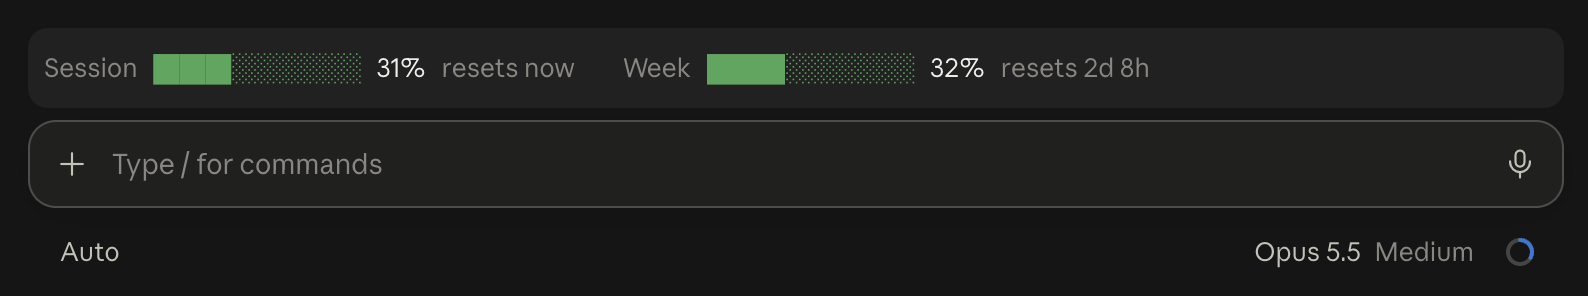
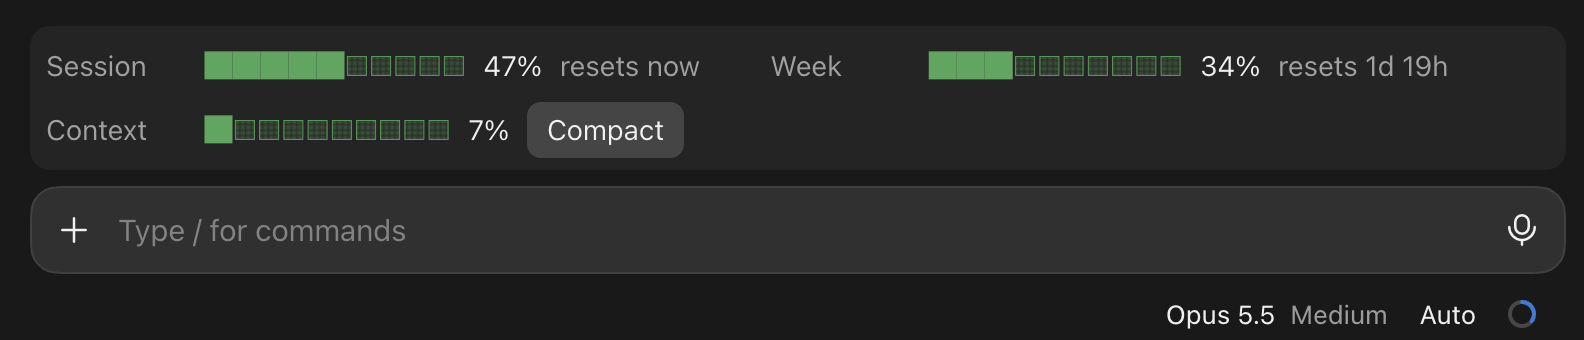
v0.3.1: two-row responsive band, queued Compact, no $0 price on subscriptions

Changed region(s): [[0.0, 0.6081, 0.9899, 0.973], [0.0309, 0.1216, 0.9899, 0.4865], [0.0309, 0.5169, 0.9899, 0.6081]]

diff --git a/hooks/register.tsx b/hooks/register.tsx
@@ -1,7 +1,10 @@
-import type { Register, SessionCost, SessionRateLimit } from 'claude-code'
+import type { Register, RenderChildren, SessionCost, SessionRateLimit } from 'claude-code'
 
 // Cells in each progress bar
 const CELLS = 10
+
+// Cells each label takes, so the bars line up down the rows
+const LABEL_WIDTH = 8
 
 // Turn a percentage into a bar such as ████░░░░░░
 function bar(percent: number): string {
@@ -94,77 +97,89 @@ export const register: Register = on => {
     return next(e)
   })
 
-  // Draw the band above the prompt
+  // Draw the band above the prompt: limits on the first row, context on the second
   on('ui.render', { component: 'AbovePrompt' }, async ($, e, next) => {
     // Nothing to show before the first reading or an update
     if (e.props.hasSurvey) return next(e)
-    if (limits.length === 0 && !cost && ctx === undefined && latest === undefined) return next(e)
+    // A cost only counts where it is a real charge: on a subscription it is always
+    // $0, and before the first reading a Pro session has no windows yet either
+    const charged = limits.length === 0 && cost !== undefined && cost.usd > 0 ? cost : undefined
+    const hasFirstRow = limits.length > 0 || charged !== undefined
+    if (!hasFirstRow && ctx === undefined && latest === undefined) return next(e)
 
     const { Box, Button, Text } = $.ui.resolve(e)
     const now = await $.clock.now()
 
+    // One item: a fixed-width label, then the rest. It never shrinks, so a narrow
+    // band moves whole items onto the next row instead of breaking their text
+    const item = (key: string, label: string, rest: RenderChildren) => (
+      <Box key={key} flexDirection="row" flexShrink={0} columnGap={1} alignItems="center">
+        <Box width={LABEL_WIDTH}>
+          <Text dimColor>{label}</Text>
+        </Box>
+        {rest}
+      </Box>
+    )
+    const meter = (percent: number) => [
+      <Text key="bar" color={colorFor(percent)}>{bar(percent)}</Text>,
+      <Text key="pct">{Math.round(percent)}%</Text>,
+    ]
+
+    const compact = async () => {
+      if (compacting) return
+      compacting = true
+      $.ui.invalidate('ui.render')
+      try {
+        // The same path as typing /compact: queued until the session is idle
+        await $.command.run({ command: 'compact' })
+      } catch (err) {
+        $.ui.toast(`Couldn't compact: ${err instanceof Error ? err.message : String(err)}`)
+      } finally {
+        compacting = false
+        $.ui.invalidate('ui.render')
+      }
+    }
+
     return (
-      <Box flexDirection="row" justifyContent="space-between">
-        <Box flexDirection="row" columnGap={3}>
-          {/* No limit windows (API key, Team or Enterprise usage-based seat): the session's cost instead */}
-          {limits.length === 0 && cost && (
-            <Box flexDirection="row" columnGap={1}>
-              <Text dimColor>Session</Text>
-              <Text>${cost.usd.toFixed(2)}</Text>
-            </Box>
-          )}
-          {limits.map(l => (
-            <Box key={l.kind} flexDirection="row" columnGap={1}>
-              <Text dimColor>{LABELS[l.kind]}</Text>
-              <Text color={colorFor(l.percentUsed)}>{bar(l.percentUsed)}</Text>
-              <Text>{Math.round(l.percentUsed)}%</Text>
-              <Text dimColor>{countdown(l.resetsAt, now)}</Text>
-            </Box>
-          ))}
-        </Box>
-        <Box flexDirection="row" columnGap={3}>
-          {latest !== undefined && (
-            <Button
-              key="update"
-              label={`↑ v${latest}`}
-              onPress={() =>
-                $.ui.toast(`usage-bar v${latest} is out. Update it under + → Plugins → Manage plugins, or run /plugin in a terminal.`, {
-                  timeoutMs: 8000,
-                })
-              }
-            />
-          )}
-          {ctx !== undefined && (
-            <Box flexDirection="row" columnGap={1}>
-              <Text dimColor>Context</Text>
-              <Text color={colorFor(ctx)}>{bar(ctx)}</Text>
-              <Text>{Math.round(ctx)}%</Text>
-              {compacting ? (
-                <Text dimColor>Compacting…</Text>
-              ) : (
-                <Button
-                  key="compact"
-                  label="Compact"
-                  onPress={async () => {
-                    if (compacting) return
-                    compacting = true
-                    $.ui.invalidate('ui.render')
-                    try {
-                      await $.session.compact()
-                      ctx = (await $.session.usage()).context.percent
-                    } catch {
-                      // Rejects while a turn runs
-                      $.ui.toast('Compact once the current turn finishes')
-                    } finally {
-                      compacting = false
-                      $.ui.invalidate('ui.render')
-                    }
-                  }}
-                />
-              )}
-            </Box>
-          )}
-        </Box>
+      // rowGap "sm": breathing room around the desktop's taller native button; the terminal draws it as 0 rows
+      <Box flexDirection="column" rowGap="sm">
+        {hasFirstRow && (
+          <Box flexDirection="row" flexWrap="wrap" columnGap={4}>
+            {/* No limit windows (API key, Team or Enterprise usage-based seat): the session's cost instead */}
+            {charged && item('cost', 'Session', [<Text key="usd">~${charged.usd.toFixed(2)}</Text>])}
+            {limits.map(l =>
+              item(l.kind, LABELS[l.kind] ?? l.kind, [
+                ...meter(l.percentUsed),
+                <Text key="reset" dimColor>{countdown(l.resetsAt, now)}</Text>,
+              ]),
+            )}
+          </Box>
+        )}
+        {(ctx !== undefined || latest !== undefined) && (
+          <Box flexDirection="row" flexWrap="wrap" columnGap={2}>
+            {ctx !== undefined &&
+              item('context', 'Context', [
+                ...meter(ctx),
+                compacting ? (
+                  <Text key="compacting">Compacting…</Text>
+                ) : (
+                  <Button key="compact" label="Compact" onPress={compact} />
+                ),
+              ])}
+            {latest !== undefined && (
+              <Button
+                key="update"
+                onPress={() =>
+                  $.ui.toast(`usage-bar v${latest} is out. Update it under + → Plugins → Manage plugins, or run /plugin in a terminal.`, {
+                    timeoutMs: 8000,
+                  })
+                }
+              >
+                <Text color="green">↑ v{latest}</Text>
+              </Button>
+            )}
+          </Box>
+        )}
       </Box>
     )
   })

diff --git a/hooks/register.test.tsx b/hooks/register.test.tsx
@@ -37,7 +37,7 @@ test('nothing is drawn before the first reading', async $ => {
   }
 })
 
-test('limits on the left, context and Compact on the right', async ($, on) => {
+test('limits on the first row, context and Compact on the second', async ($, on) => {
   engine(on)
   await measure($, 55)
 
@@ -67,15 +67,14 @@ test('Compact is disabled while it runs, then comes back', async ($, on) => {
   engine(on)
   let calls = 0
   let finish!: () => void
-  on('session.compact', () => {
+  const commands: string[] = []
+  on('command.run', (_: unknown, e: any) => {
     calls++
+    commands.push(e.command)
     return new Promise(resolve => {
-      finish = () => resolve({ skip: 'test' })
+      finish = () => resolve({})
     })
   })
-  on('session.usage', () => ({
-    value: { startedAt: 0, context: { window: 200000, percent: 12 }, rateLimits: LIMITS },
-  }))
   await measure($, 90)
 
   const ui = await $.ui.mount({ ...BAND, surface: 'desktop' })
@@ -88,17 +87,16 @@ test('Compact is disabled while it runs, then comes back', async ($, on) => {
 
   finish()
   await pressed
-  expect(calls).toBe(1)
+  expect(commands).toEqual(['compact'])
   expect(await ui.find({ type: 'Button', key: 'compact' })).toBeDefined()
-  expect(await ui.find({ type: 'Text', text: /^12%$/ })).toBeDefined()
   await ui.unmount()
 })
 
 test('a refused compaction shows a toast and keeps the button', async ($, on) => {
   engine(on)
   const toasts: string[] = []
-  on('session.compact', () => {
-    throw new Error('a turn is running')
+  on('command.run', () => {
+    throw new Error('not enough messages to compact')
   })
   on('ui.toast', (_, e: any) => {
     toasts.push(typeof e === 'string' ? e : e.text)
@@ -108,7 +106,9 @@ test('a refused compaction shows a toast and keeps the button', async ($, on) =>
 
   const ui = await $.ui.mount({ ...BAND, surface: 'desktop' })
   await ui.press({ key: 'compact' })
-  expect(toasts).toEqual(['Compact once the current turn finishes'])
+  // The real reason, never a guess about a running turn
+  expect(toasts).toHaveLength(1)
+  expect(toasts[0]).toMatch(/^Couldn't compact: /)
   expect(await ui.find({ type: 'Button', key: 'compact' })).toBeDefined()
   await ui.unmount()
 })
@@ -175,7 +175,7 @@ for (const [name, local, remote] of [
   })
 }
 
-test('on an API key the session cost sits left, context and Compact right', async ($, on) => {
+test('on an API key the session cost on the first row, context and Compact on the second', async ($, on) => {
   engine(on)
   await $.session.measure({
     context: { window: 200000, percent: 30 },
@@ -186,7 +186,7 @@ test('on an API key the session cost sits left, context and Compact right', asyn
 
   for (const surface of ['terminal', 'desktop'] as const) {
     const ui = await $.ui.mount({ ...BAND, surface })
-    expect(await ui.find({ type: 'Text', text: '$1.23' })).toBeDefined()
+    expect(await ui.find({ type: 'Text', text: '~$1.23' })).toBeDefined()
     expect(await ui.find({ type: 'Text', text: 'Context' })).toBeDefined()
     expect(await ui.find({ type: 'Button', key: 'compact' })).toBeDefined()
     await ui.unmount()
@@ -200,5 +200,37 @@ test('a gateway spend limit draws a Spend bar', async ($, on) => {
   const ui = await $.ui.mount({ ...BAND, surface: 'desktop' })
   expect(await ui.find({ type: 'Text', text: 'Spend' })).toBeDefined()
   expect(await ui.find({ type: 'Text', text: /^85%$/ })).toBeDefined()
+  await ui.unmount()
+})
+
+test('a subscription before its first reading shows no price', async ($, on) => {
+  engine(on)
+  // Pro or Max: no windows yet, and the plan's cost is always $0
+  await $.session.measure({
+    context: { window: 200000 },
+    rateLimits: [],
+    cost: { usd: 0 },
+    changed: ['cost'],
+  } as any)
+
+  const ui = await $.ui.mount({ ...BAND, surface: 'desktop' })
+  expect(await ui.find({ type: 'Text', text: /\$/ })).toBeUndefined()
+  expect(await ui.find({ type: 'Button', key: 'compact' })).toBeUndefined()
+  await ui.unmount()
+})
+
+test('a spend limit stays a bar even when the session has a cost', async ($, on) => {
+  engine(on)
+  await $.session.measure({
+    context: { window: 200000, percent: 18 },
+    rateLimits: [{ kind: 'spend_limit', percentUsed: 112, resetsAt: '2099-01-01T00:00:00Z' }],
+    cost: { usd: 5 },
+    changed: ['rateLimits'],
+  } as any)
+
+  const ui = await $.ui.mount({ ...BAND, surface: 'desktop' })
+  expect((await ui.find({ type: 'Text', text: /^█+$/ }))?.props.color).toBe('red')
+  expect(await ui.find({ type: 'Text', text: /^112%$/ })).toBeDefined()
+  expect(await ui.find({ type: 'Text', text: /\$/ })).toBeUndefined()
   await ui.unmount()
 })

diff --git a/README.md b/README.md
@@ -1,24 +1,37 @@
 # usage-bar
 
-A [Claude Code](https://claude.com/claude-code) mod that shows your **5-hour session** and **weekly** usage limits in a slim band above the prompt, with reset countdowns.
+A [Claude Code](https://claude.com/claude-code) mod that shows your usage limits, how full the context window is, and a one-click **Compact** button in a slim band above the prompt.
 
 ![usage-bar showing session and weekly usage above the prompt](assets/sub-demo.png)
 
+```
+Session  ████░░░░░░ 35% resets 40m    Week     ███████░░░ 72% resets 1d 20h
+Context  █████████░ 87% [ Compact ]
+```
+
+- **First row:** your plan's limits with reset countdowns: Session and Week, or Spend behind a gateway. On a usage-billed account, this session's estimated cost instead.
+- **Second row:** how full the context window is, and **Compact**, which runs `/compact` and shows *Compacting…* until it finishes.
 - Bars turn yellow at 60% and red at 80%.
 - Updates after each turn, and the countdowns refresh every minute.
-- Reads the same usage data as `/usage`. No network calls of its own, no data leaves your machine.
+- On a narrow window, items move onto extra rows instead of getting cut off.
+- Reads the same figures as `/usage`, `/context` and `/cost`.
 
 ![usage-bar showing API usage and spend tracking above the prompt](assets/api-demo.png)
 
-- Shows session usage cost.
+## What it shows
+
+| Account | First row | Second row |
+| --- | --- | --- |
+| Pro or Max | Session and Week bars | Context and Compact |
+| Behind a Claude gateway with a spend limit | Spend bar | Context and Compact |
+| API key, Console, or Team/Enterprise usage-based seat | This session's cost, such as `~$2.45` | Context and Compact |
+
+- The cost is Claude Code's own estimate, the figure `/cost` prints, not your bill. It appears once the session has cost something.
+- Context appears after the first reply, once Claude Code has measured it.
 
 ## Requirements
 
-- Claude Code **2.1.286 or later** (update the desktop app if needed)
-- What it shows depends on the account:
-  - **Pro or Max:** session and weekly bars.
-  - **Behind a Claude gateway with a spend limit:** a spend bar.
-  - **API key, Console, or Team/Enterprise usage-based seat:** no plan limits are reported, so it shows this session's cost (as `/cost` totals it).
+- Claude Code **2.1.326 or later** (update the desktop app if needed)
 - It draws in the **Code tab** of the desktop app and in the terminal. It does not appear in regular chats or Cowork.
 
 ## Install
@@ -33,7 +46,11 @@ A [Claude Code](https://claude.com/claude-code) mod that shows your **5-hour ses
 
 Answer `y` to add the marketplace, then pick a scope (user scope loads it in every session).
 
-Start a new session and send a message. The band appears after the first reply, once your usage figures arrive. If it doesn't, run `/reload-plugins`.
+Start a new session and send a message. The band fills in after the first reply, once your usage figures arrive. If it doesn't appear, run `/reload-plugins`.
+
+## Update
+
+Once a session, the band checks GitHub for a newer release. When there is one, a green **↑ v…** button appears next to Compact; press it for the steps. Update under **+ → Plugins → Manage plugins**, or run `/plugin` in a terminal. You can also turn on auto-update for the `rabbit-ninja/usage-bar` marketplace there.
 
 ## Turn it off
 
@@ -41,7 +58,16 @@ Disable or uninstall it under **+ → Plugins → Manage plugins**, or run `/plu
 
 ## Safety
 
-Mods run code with your permissions. This one is small and readable: see [`hooks/register.tsx`](hooks/register.tsx). It only reads usage and cost figures and draws text.
+Mods run code with your permissions. This one is small and readable: see [`hooks/register.tsx`](hooks/register.tsx). It reads usage, context and cost figures, draws text, and compacts the conversation only when you press Compact. Its one network request, once per session, reads this repository's [`plugin.json`](.claude-plugin/plugin.json) from GitHub to see whether a newer version exists. Nothing about you or your usage is sent.
+
+## Development
+
+Run the tests and checks with the Claude Code CLI:
+
+```
+claude plugin test .
+claude plugin validate .
+```
 
 ## License
 
